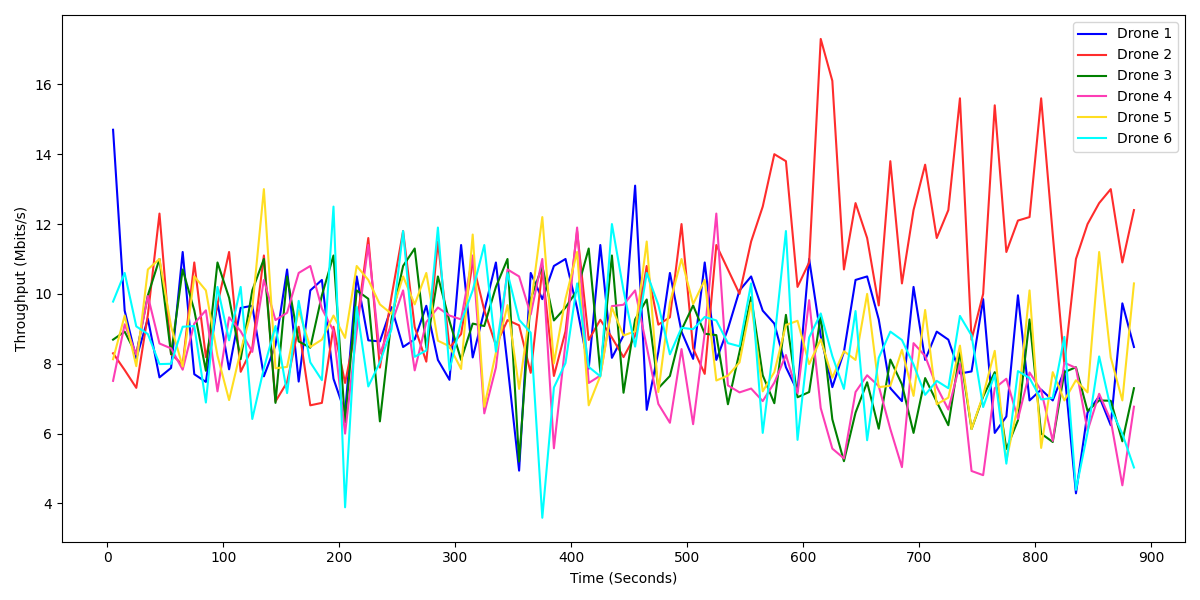
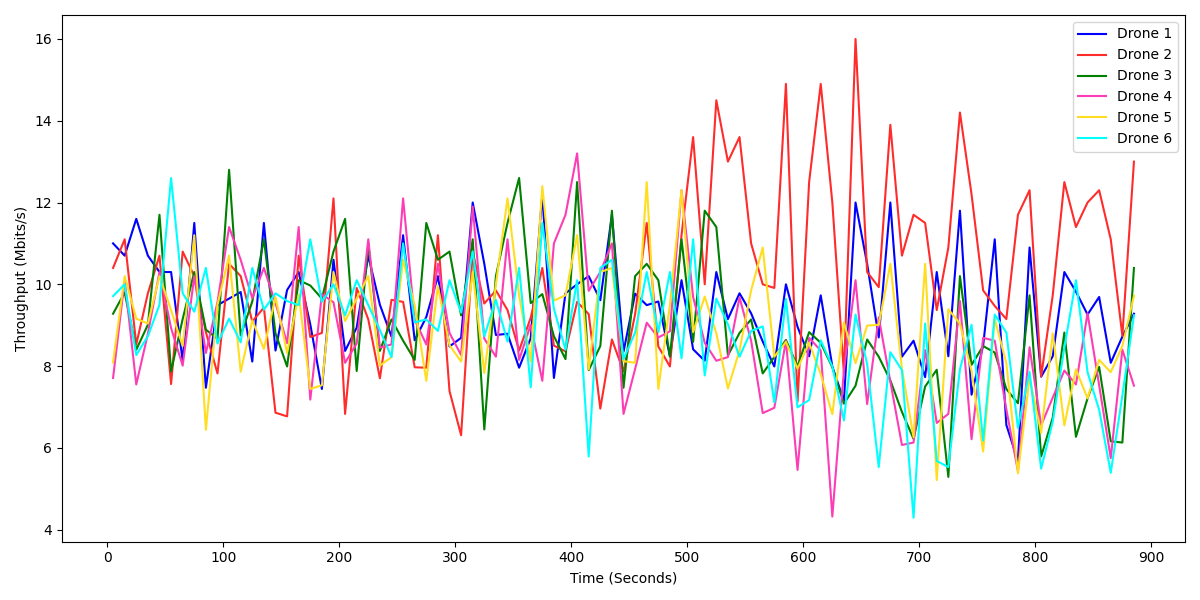
Trace plot bad and good

diff --git a/docs/logs/processTrace.py b/docs/logs/processTrace.py
@@ -18,7 +18,7 @@ node_colors = ['#0000ff',
                '#00ffff']
 
 tdma_round_len_ms = 300
-offset = -290
+offset = 35
 
 def format_key(key):
 
@@ -70,7 +70,7 @@ def process_pcap(file_path):
 
             relative_timestamp_ms = timestamp_ms - first_packet_time_ms
 
-            if relative_timestamp_ms > 39880:
+            if relative_timestamp_ms > 800075:
 
                 wlan_source_address = dot11.addr2
                 
@@ -125,9 +125,9 @@ def process_pcap(file_path):
 
 if __name__ == '__main__':
 
-    #process_pcap('./tdma-50ms-slot-tests/six-node-sync-progression/trace.pcapng.gz')
+    process_pcap('./tdma-50ms-slot-tests/six-node-sync-progression/trace_new.pcapng.gz')
 
-    process_pcap('./tdma-tests/six-node-throughput-udp/50ms-six-node-udp.pcapng.gz')
+    #process_pcap('./tdma-tests/six-node-throughput-udp/50ms-six-node-udp.pcapng.gz')
 
     plt.legend(loc='upper right')
     plt.grid()

diff --git a/docs/logs/generateCharts.py b/docs/logs/generateCharts.py
@@ -10,23 +10,23 @@ import scipy.optimize as opt;
 
 #Flags
 # Protocol Type
-udp = 1
+udp = 0
 tcp = 0
 filetransfer = 0
-sync_progression = 0
+sync_progression = 1
 
 test_folders = ['./csma-tests', 
                './tdma-tests',]
 
 # Number of Nodes
 six_nodes = 1
-four_nodes = 1
-two_nodes = 1
+four_nodes = 0
+two_nodes = 0
 
 # Data aggregation
 distributions = 0
-node_number = 1
-over_time = 0
+node_number = 0
+over_time = 1
 
 # Throughput Regex
 pattern = r'\b\d+(?:\.\d+)?\s*(?:bits|Kbits|Mbits)\/sec\b'
@@ -382,7 +382,7 @@ def show_sync():
     ntp_data = dict()
 
     #Set to whichever folder you want
-    folder = "./tdma-50ms-slot-tests"
+    folder = "./tdma-tests"
 
     if(six_nodes):
         data = get_data(folder + '/six-node-')
